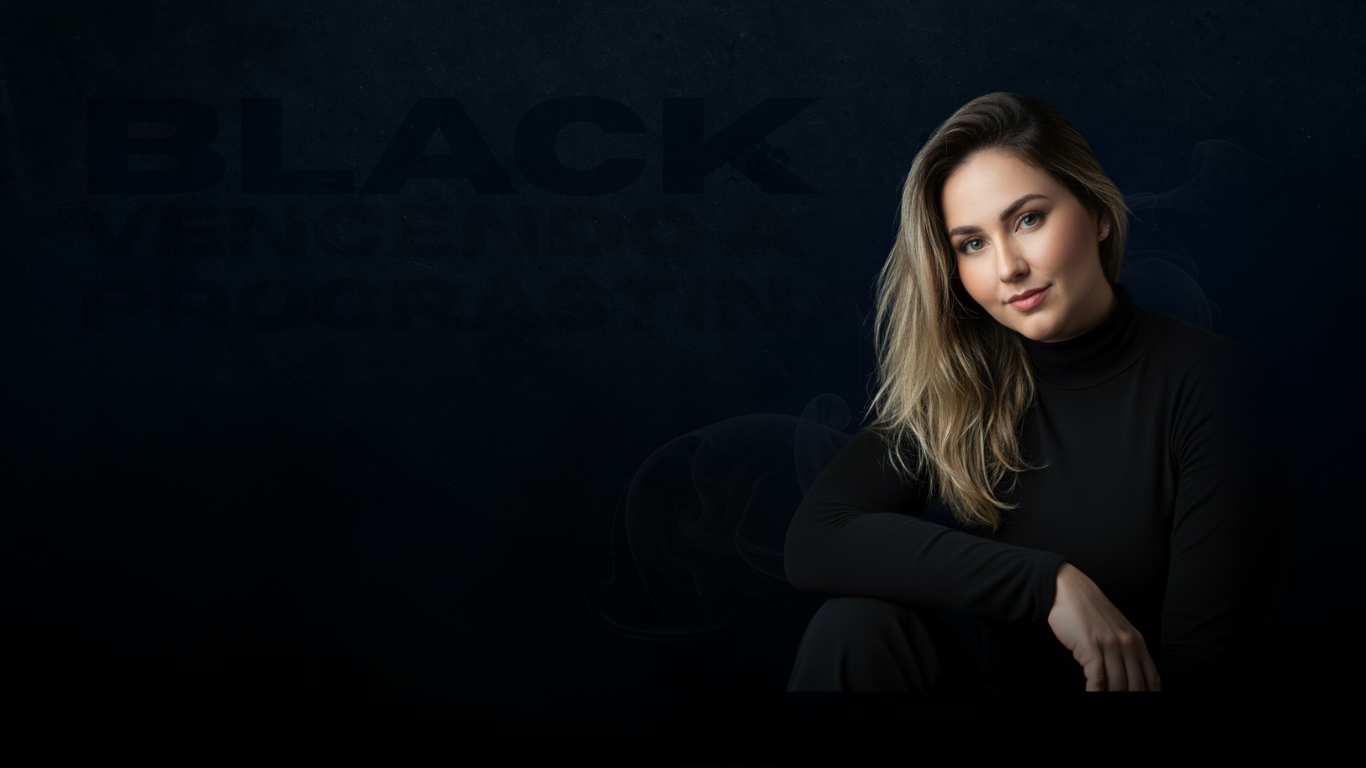
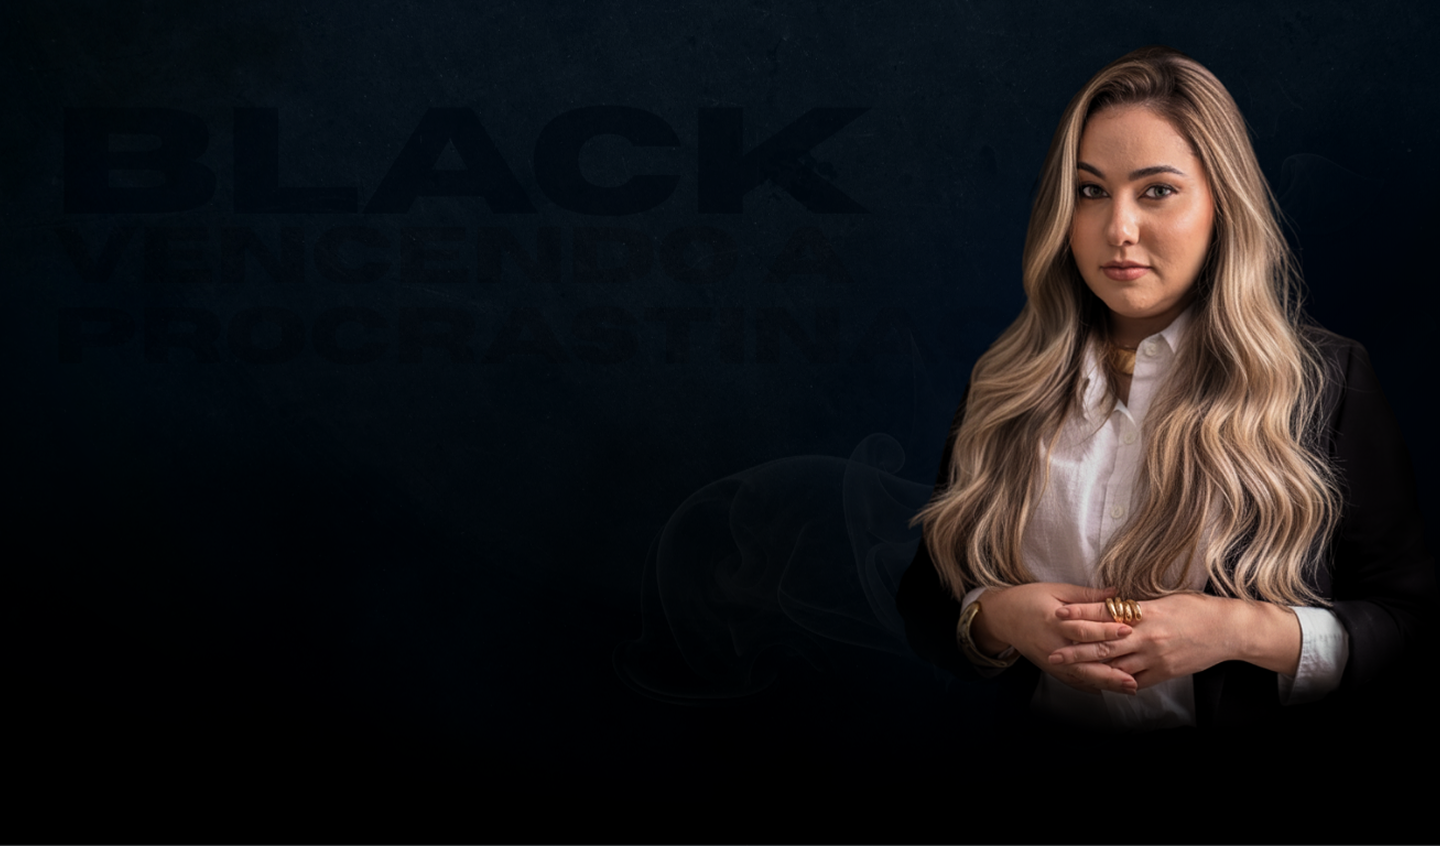
adicionando whatsapp

Changed region(s): [[0.6149, 0.0625, 0.9531, 0.9062]]

diff --git a/landing-page-black/src/components/Button.tsx b/landing-page-black/src/components/Button.tsx
@@ -4,16 +4,25 @@ type ButtonProps = {
   label: string;
 };
 
+const WHATSAPP_GROUP_LINK = "https://chat.whatsapp.com/HYgJJu82oWO1yVxX6JDz1T";
+
 function Button({ label }: ButtonProps) {
-  const handleClick = () => {
+  const handleClick = (e: React.MouseEvent<HTMLButtonElement>) => {
+    e.preventDefault();
+
+    // Rastreia o evento no Meta Pixel
     trackEvent("Entrar no grupo VIP", {
       button_label: label,
       button_type: "primary",
     });
+
+    // Redireciona para o grupo do WhatsApp
+    window.open(WHATSAPP_GROUP_LINK, "_blank");
   };
 
   return (
     <button
+      type="button"
       onClick={handleClick}
       className="hover:bg-[#1E7526] transition-all duration-300 cursor-pointer mt-[1rem] bg-[#2B9832] text-[#FFFFFF] rounded-[0.5rem] p-3 sm:p-4 md:p-[1rem] w-full sm:w-auto text-sm sm:text-base"
     >
